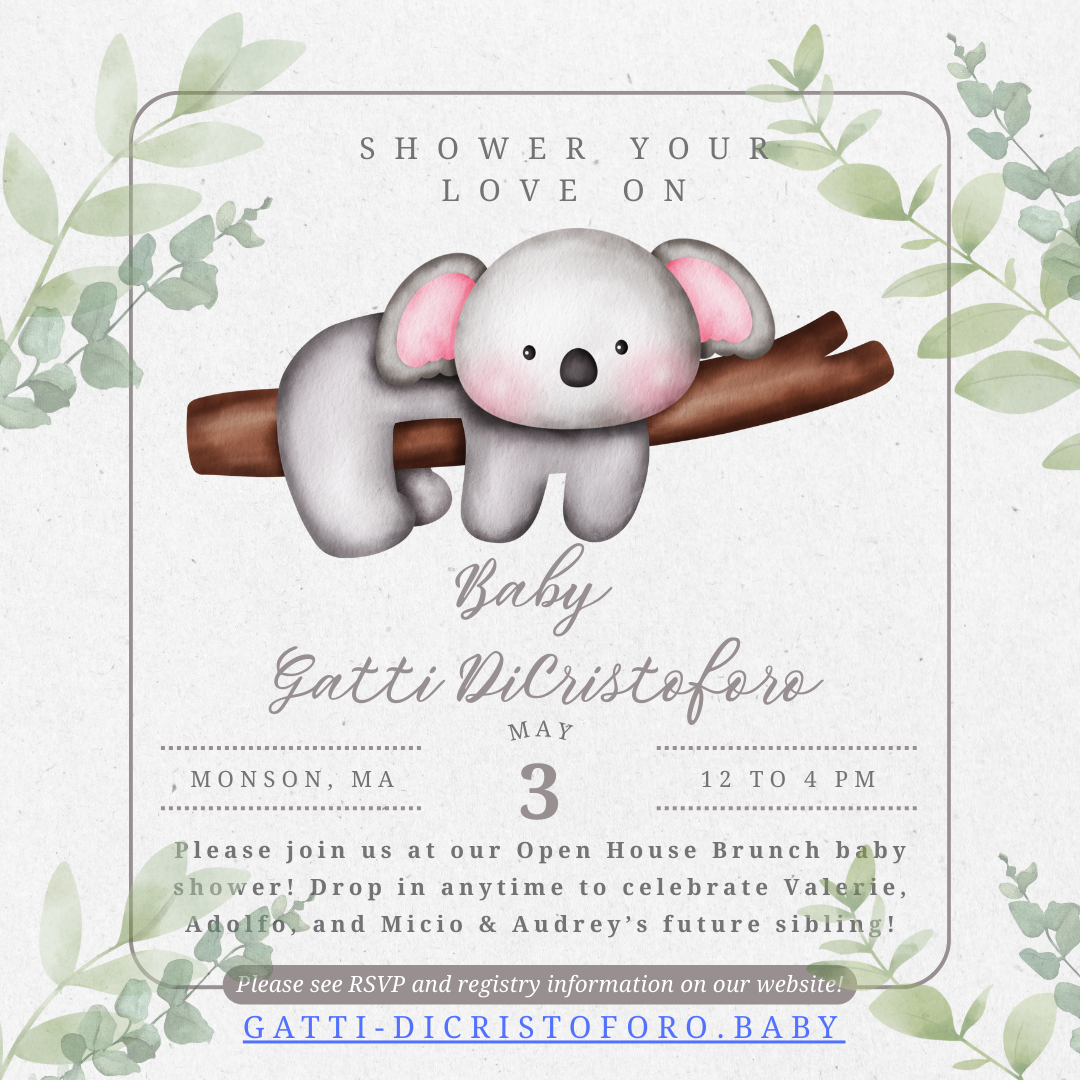
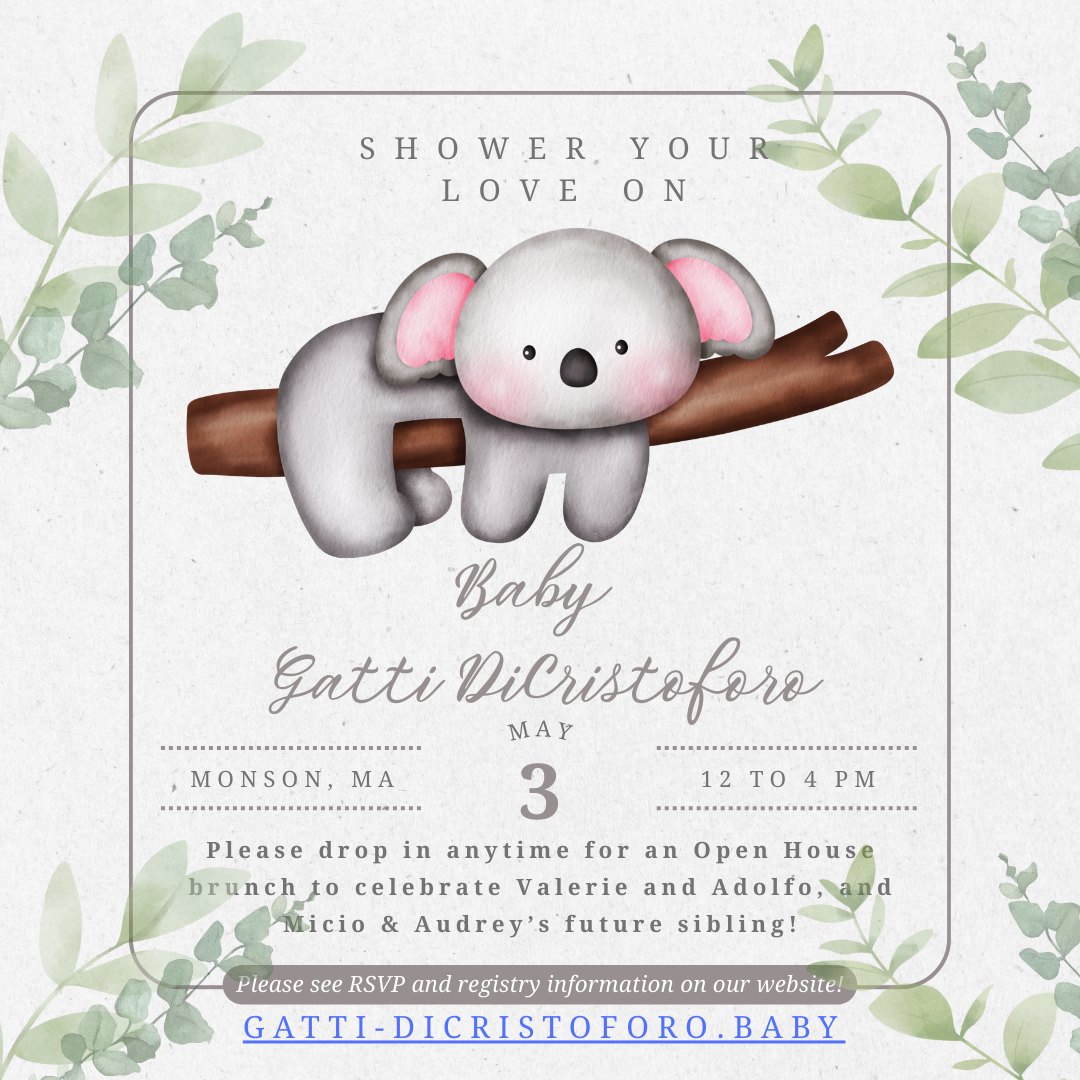
change rsvp date and invite verbiage

Changed region(s): [[0.1528, 0.7639, 0.825, 0.8861]]

diff --git a/index.html b/index.html
@@ -52,7 +52,7 @@
 				<section id="one" class="wrapper style2 fade-up">
 					<div class="inner">
 						<h2>RSVP</h2>
-						<p>Please let us know if you (and your partner and children) will be coming as soon as possible, with the deadline being April 5!</p>
+						<p>Please let us know if you (and your partner and children) will be coming as soon as possible, with the deadline being April 4!</p>
 					</div>
 					<div class="google-form-wrapper">
 						<iframe 
@@ -68,7 +68,7 @@
 
 				<!-- Two -->
 				<section id="two" class="wrapper style3 fade-up">
-					<div class="inner" style="height: 80%;">
+					<div class="inner" style="height: 80%; min-height: 75vh;">
 						<h2>REGISTRY</h2>
 						<p>We cannot wait for you to meet our little one - having all of you in her life is the greatest gift we could ask for!</p>
 						<p>We are traveling to Monson from our home in Washington DC, so we would appreciate no physical gifts at the party!</p>
@@ -84,7 +84,7 @@
 
 				<!-- Three -->
 				<section id="three" class="wrapper style4 fade-up">
-					<div class="inner">
+					<div class="inner" style="height: 100vh;">
 						<h2>DIRECTIONS</h2>
 						<p>Valerie's childhood home is in Monson, Massachusetts, located off the Palmer Exit of the Mass Pike! There is a large driveway and additional parking on the street 
 						</p>
